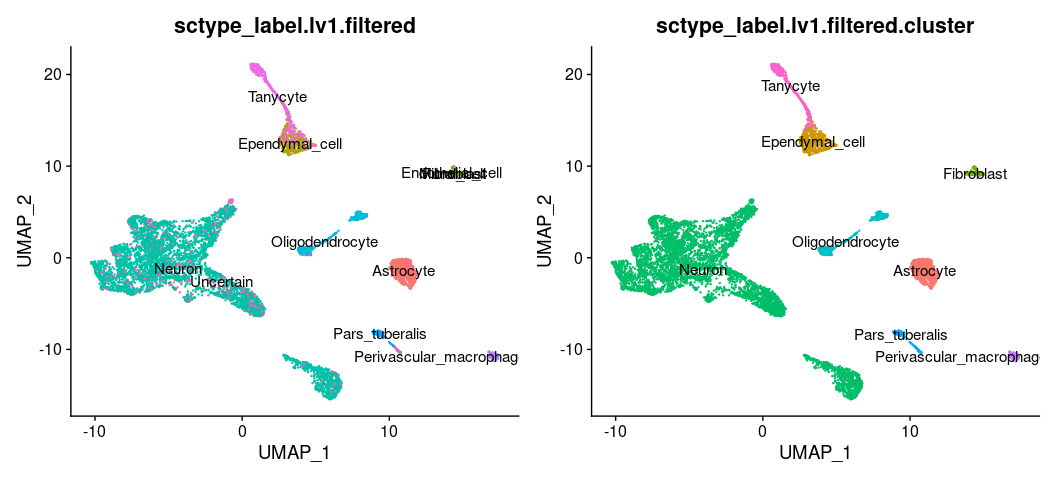
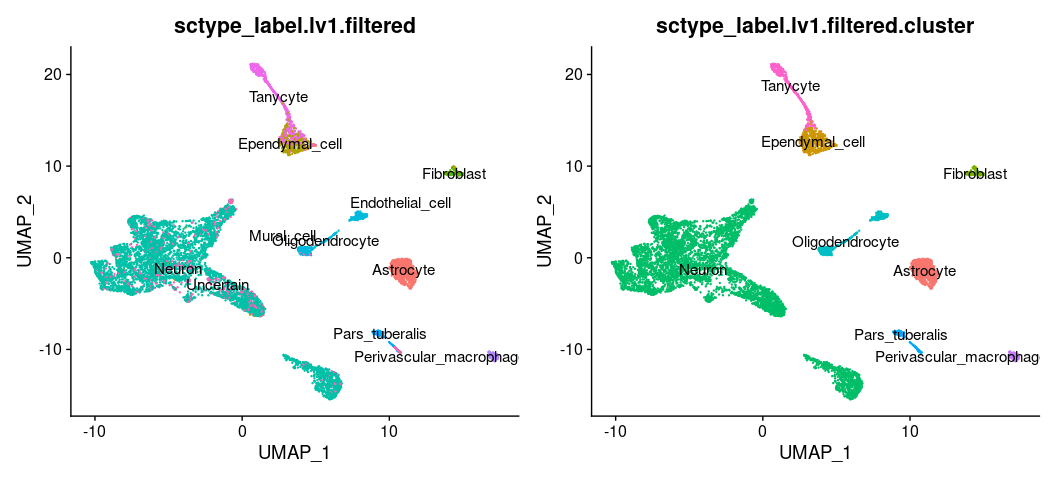
Updated cell type annotation pipeline.

diff --git a/cell_type_annotation/README.md b/cell_type_annotation/README.md
@@ -1,7 +1,14 @@
 Cell type annotation with marker genes
 ================
 Bitao Qiu
-13/06/2022
+17/06/2022
+
+This pipeline is most useful when a reference snRNAseq dataset is not
+available and you have some marker genes for your target cell types of
+interest.
+
+If you have a good reference snRNAseq dataset, using Seurat anchor
+transfer (reference based) might be better.
 
 ``` r
 source('R/find_markers.R')
@@ -35,25 +42,65 @@ Construct marker gene list:
 # For high level annotation, n within 100 and 200, for low level annotation, n = 30 - 50 should be fine.
 top_n = 200
 marker_gene_lv1 = contruct_marker_list(marker_db_cam_hypo$lv1, top_n = top_n)
+
+# Example of a marker gene list:
+lapply(marker_gene_lv1, head, 5)
 ```
+
+    ## $Astrocyte
+    ## [1] "Slc4a4"  "Slc1a2"  "Slc1a3"  "Sparcl1" "Agt"    
+    ## 
+    ## $Endothelial_cell
+    ## [1] "Itm2a"   "Bsg"     "Abcb1a"  "Slco1a4" "Flt1"   
+    ## 
+    ## $Ependymal_cell
+    ## [1] "Tmem212" "Ccdc153" "Dbi"     "Rarres2" "Dynlrb2"
+    ## 
+    ## $Fibroblast
+    ## [1] "Col1a2"   "Dcn"      "Apod"     "Itih5"    "Crispld2"
+    ## 
+    ## $Mural_cell
+    ## [1] "Cald1"  "Rgs5"   "Crip1"  "Igfbp7" "Tm4sf1"
+    ## 
+    ## $Neuron
+    ## [1] "Ahi1"   "Nap1l5" "Ttc3"   "Rtn1"   "Snhg11"
+    ## 
+    ## $Oligodendrocyte
+    ## [1] "Olig1"   "Pllp"    "Syt11"   "Enpp2"   "Septin7"
+    ## 
+    ## $Pars_tuberalis
+    ## [1] "Ces1d" "Cga"   "Epcam" "Chga"  "Emb"  
+    ## 
+    ## $Perivascular_macrophages_and_microglia
+    ## [1] "C1qb" "Ctss" "C1qc" "C1qa" "Hexb"
+    ## 
+    ## $Tanycyte
+    ## [1] "6330403K07Rik" "Prdx6"         "Nnat"          "Col23a1"      
+    ## [5] "Ntrk2"
 
 Annotation:
 
 ``` r
-test.data.B10.lv1 =  cell_annotation_ref_based(test.data.B10, marker_gene_lv1, target_cells = colnames(test.data.B10), label = 'sctype_label.lv1', filter = T)
+test.data.B10.lv1 = test.data.B10
+n_pc = 20
+# Define cell clusters,  will be used for cluster level annotation:
+test.data.B10.lv1 <- FindNeighbors(test.data.B10.lv1, dims = 1:n_pc, verbose = F)
+test.data.B10.lv1 <- FindClusters(test.data.B10.lv1, resolution = 1) 
 ```
 
     ## Modularity Optimizer version 1.3.0 by Ludo Waltman and Nees Jan van Eck
     ## 
     ## Number of nodes: 7684
-    ## Number of edges: 249317
+    ## Number of edges: 250070
     ## 
     ## Running Louvain algorithm...
-    ## Maximum modularity in 10 random starts: 0.9166
-    ## Number of communities: 29
+    ## Maximum modularity in 10 random starts: 0.9260
+    ## Number of communities: 31
     ## Elapsed time: 0 seconds
 
 ``` r
+test.data.B10.lv1 <- cell_annotation_ref_based(test.data.B10.lv1, marker_gene_lv1, label = 'sctype_label.lv1', data_slot = 'scale.data', filter = T)
+
 # Visualization:
 # sctype_label.lv1.filtered are cell level annotations (cells with low scores are marked as "Unknown"); 
 # sctype_label.lv1.filtered.cluster are cluster level annotations.
@@ -77,26 +124,31 @@ marker_gene_lv2.neuron = contruct_marker_list(marker_db_cam_hypo$lv2$Neuron, top
 Annotation:
 
 ``` r
-# We choose 50 PCs for cluster annotation.
+# For sub cell-type annotation, we choose 50 PCs and a high resolution for cluster annotation.
 n_pc = 50
+resolution = 1
+
 # Subset neuron cells scRNAseq data:
 neurone_cells = colnames(test.data.B10.lv1)[which(test.data.B10.lv1$sctype_label.lv1.filtered.cluster %in% c('Neuron'))]
-test.data.B10.neuron =  cell_annotation_ref_based(test.data.B10.lv1, marker_gene_lv2.neuron, n_pc = n_pc, 
-                                        target_cells = neurone_cells,
-                                        label = 'sctype_label.lv2')
+test.data.B10.neuron = subset(test.data.B10.lv1, cells = neurone_cells)
+test.data.B10.neuron = FindVariableFeatures(test.data.B10.neuron)
+test.data.B10.neuron <- FindNeighbors(test.data.B10.neuron, dims = 1:n_pc, verbose = T)
+test.data.B10.neuron <- FindClusters(test.data.B10.neuron, resolution = resolution) 
 ```
 
     ## Modularity Optimizer version 1.3.0 by Ludo Waltman and Nees Jan van Eck
     ## 
     ## Number of nodes: 5385
-    ## Number of edges: 166042
+    ## Number of edges: 165749
     ## 
     ## Running Louvain algorithm...
-    ## Maximum modularity in 10 random starts: 0.9166
+    ## Maximum modularity in 10 random starts: 0.9165
     ## Number of communities: 34
     ## Elapsed time: 0 seconds
 
 ``` r
+test.data.B10.neuron =  cell_annotation_ref_based(test.data.B10.neuron, marker_gene_lv2.neuron, label = 'sctype_label.lv2')
+
 # Visualization (lvl.2):
 # sctype_label.lv2.filtered.cluster are cluster level annotations, depended on cluster annotation (seurat_clusters).
 test.data.B10.neuron = RunPCA(test.data.B10.neuron)
@@ -107,34 +159,52 @@ DimPlot(test.data.B10.neuron, group.by = c('sctype_label.lv2.filtered.cluster', 
 
 ![](README_files/figure-gfm/Annotation_lvl2-1.png)<!-- -->
 
-## Comparison with Seurat annotation
+## Compare with Seurat annotation
 
-Prepare Seurat annotation:
+### Level 1 annotation:
 
 ``` r
-# Anchor transfer
+# Find anchors:
+hypo.ref.anchors <- FindTransferAnchors(reference = hypo.ref, query = test.data.B10.lv1, recompute.residuals = F,
+                                               dims = 1:n_pc, reference.reduction = "pca")
+
+# Seurat cell level annotation:
+predictions.hypo <- TransferData(anchorset = hypo.ref.anchors, refdata = hypo.ref$taxonomy_lvl2, dims = 1:n_pc)
+test.data.B10.lv1 <- AddMetaData(test.data.B10.lv1, metadata = predictions.hypo)
+
+# Seurat cluster level annotation.
+test.data.B10.lv1 = cluster_level_annotation(test.data.B10.lv1, sctype_label = 'predicted.id')
+
+# Direct comparison between marker gene based and anchor transfer method:
+# Left: Marker gene annotation; Right: Seurat annotation
+DimPlot(test.data.B10.lv1, group.by = c('sctype_label.lv1.filtered.cluster','predicted.id.cluster'),label = T) & NoLegend()
+```
+
+![](README_files/figure-gfm/Seurat_annotation_lvl1-1.png)<!-- -->
+
+### Level 2 annotation:
+
+``` r
+# Subset neuron cells from reference and and find anchors:
 hypo.ref.neuron = subset(hypo.ref, subset = `taxonomy_lvl2` == 'Neuron')
 hypo.ref.neuron = RunPCA(hypo.ref.neuron)
 hypo.ref.neuron = RunUMAP(hypo.ref.neuron, dims = c(1:n_pc))
-
-# Seurat cell level annotation:
 hypo.ref.neuron.anchors <- FindTransferAnchors(reference = hypo.ref.neuron, query = test.data.B10.neuron, recompute.residuals = F,
                                                dims = 1:n_pc, reference.reduction = "pca")
+
+# Seurat cell level annotation:
 predictions.neuron <- TransferData(anchorset = hypo.ref.neuron.anchors, refdata = hypo.ref.neuron$cell_type_all_lvl2, dims = 1:n_pc)
 test.data.B10.neuron <- AddMetaData(test.data.B10.neuron, metadata = predictions.neuron)
 
 # Seurat cluster level annotation.
 test.data.B10.neuron = cluster_level_annotation(test.data.B10.neuron, sctype_label = 'predicted.id')
-```
 
-Visual comparison:
-
-``` r
+# Direct comparison between marker gene based and anchor transfer method:
 # Left: Marker gene annotation; Right: Seurat annotation
 DimPlot(test.data.B10.neuron, group.by = c('sctype_label.lv2.filtered.cluster', 'predicted.id.cluster'),label = T) & NoLegend()
 ```
 
-![](README_files/figure-gfm/Seurat_comparison-1.png)<!-- -->
+![](README_files/figure-gfm/Seurat_annotation_lvl2-1.png)<!-- -->
 
 ``` r
 # Plotting candidate genes:
@@ -142,3 +212,8 @@ FeaturePlot(test.data.B10.neuron, features = c('Agrp','Sst','Nfix','Htr2c'))
 ```
 
 ![](README_files/figure-gfm/plot_candidate_genes-1.png)<!-- -->
+
+**Marker-gene based** and **Reference based (anchor transfer)** give a
+similar result, the former is dependent on *the quality of marker
+genes*, whereas the latter is dependent on *the quality of reference
+snRNAeq data*.
